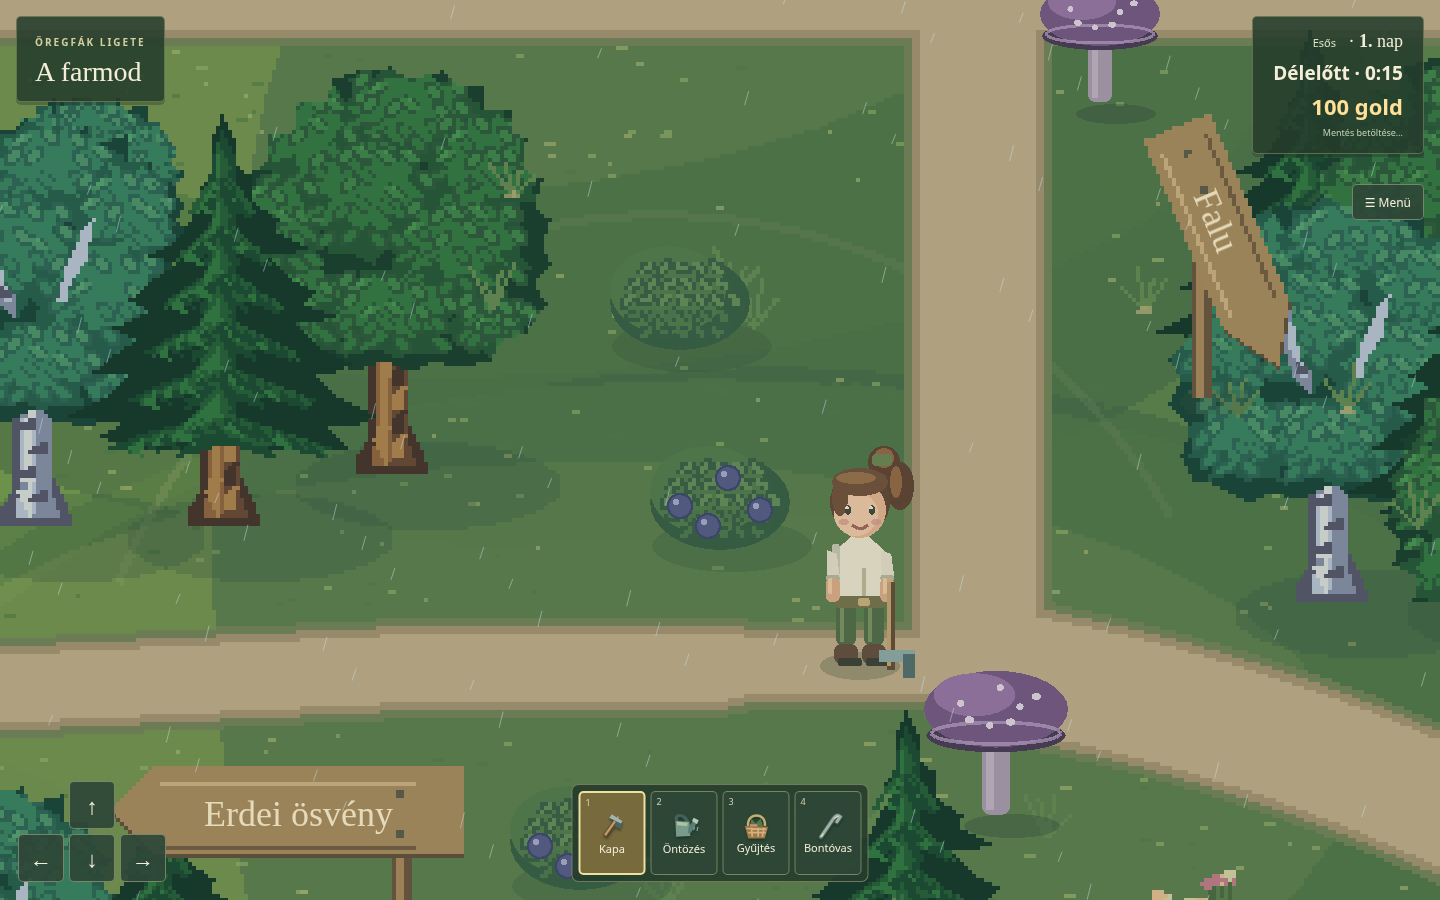
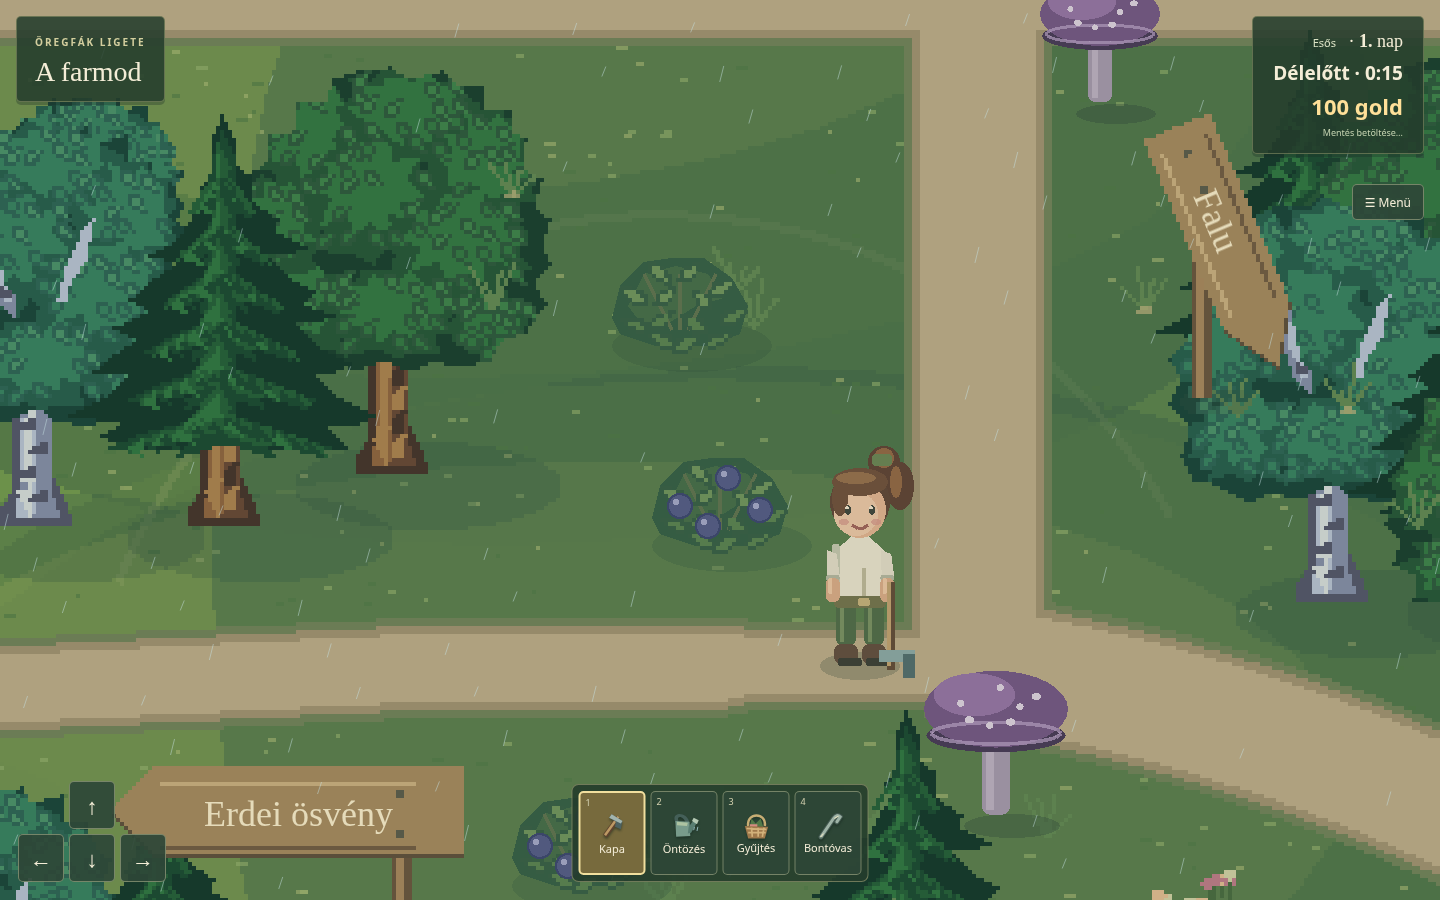
Use sparser pointed leaves and loose blueberry shoots

diff --git a/src/village-art.ts b/src/village-art.ts
@@ -100,12 +100,14 @@ export function drawVillage(scene:Phaser.Scene){
 }
 export function drawForage(scene:Phaser.Scene,picked:Record<string,number>,day:number,weatherSeed=0){
  const g=scene.add.graphics().setDepth(2);
- for(const b of layout.bushes){g.fillStyle(0x2f5138,.25).fillEllipse(b.x+3,b.y+5,40,13);g.fillStyle(0x355f40).fillEllipse(b.x,b.y-6,35,24);g.fillStyle(0x527b48).fillEllipse(b.x-3,b.y-9,29,22);
-  for(let row=0;row<5;row++)for(let col=0;col<7;col++){
-   const dx=(col-3)*4.4+(row%2?1.4:0),dy=(row-2)*4;
-   if((dx/15.4)**2+(dy/10.3)**2>1)continue;
-   drawShrubLeaf(g,b.x+dx,b.y-7+dy,(col<3?-1:1)*(.45+((row+col)%3)*.18),row<3);
-  }
+ for(const b of layout.bushes){
+  g.fillStyle(0x2f5138,.25).fillEllipse(b.x+3,b.y+5,40,13);
+  g.fillStyle(0x355f40).fillPoints([[-17,-2],[-15,-10],[-9,-16],[-2,-17],[6,-17],[13,-12],[17,-5],[15,2],[7,5],[-6,5],[-15,2]].map(([dx,dy])=>({x:b.x+dx,y:b.y+dy})),true);
+  g.fillStyle(0x476e43).fillPoints([[-13,-5],[-9,-13],[-1,-15],[7,-13],[11,-7],[4,-5],[-4,0],[-10,-1]].map(([dx,dy])=>({x:b.x+dx,y:b.y+dy})),true);
+  // Loose alternating leaves belong to three short shoots, not a surface grid.
+  for(const side of [-1,0,1])g.lineStyle(.8,0x61734a).lineBetween(b.x+side*2,b.y+1,b.x+side*9,b.y-13);
+  const leaves=[[-6,-14,-2.4],[2,-14,-.7],[10,-10,-.5],[-12,-8,-2.6],[-4,-8,-.7],[5,-7,-2.3],[13,-3,-.4],[-12,-1,-2.8],[-5,-2,-.6],[3,-1,-2.5],[9,3,-.4],[-5,3,-2.7],[1,4,-.5]];
+  for(let i=0;i<leaves.length;i++){const [dx,dy,a]=leaves[i];drawShrubLeaf(g,b.x+dx,b.y+dy,a,dy< -4,i%3===0?1.5:1.35);}
   if(forageReady({picked,weatherSeed},b.id,day))for(const[dx,dy]of [[-10,-5],[2,-12],[10,-4],[-3,0]]){g.fillStyle(0x565b84).fillCircle(b.x+dx,b.y+dy,3);g.fillStyle(0xa8a9c7).fillCircle(b.x+dx-1,b.y+dy-1,.8);g.lineStyle(.6,0x3c456b).strokeCircle(b.x+dx,b.y+dy,3);}}
  return g;
 }

diff --git a/src/foliage-leaf.ts b/src/foliage-leaf.ts
@@ -1,7 +1,7 @@
 import type Phaser from 'phaser';
 
-/** A tapered oval leaf, shared by pixel trees and small garden shrubs. */
-export function leafContour(length:number,halfWidth:number){return [-length,0,-length*.65,-halfWidth*.7,0,-halfWidth,length*.65,-halfWidth*.65,length,0,length*.35,halfWidth,-length*.25,halfWidth*.85,-length*.7,halfWidth*.55];}
+/** A narrow pointed leaf, shared by pixel trees and small garden shrubs. */
+export function leafContour(length:number,halfWidth:number){return [-length,0,-length*.4,-halfWidth, length*.15,-halfWidth*.8,length,0,length*.15,halfWidth*.8,-length*.4,halfWidth];}
 export function drawShrubLeaf(g:Phaser.GameObjects.Graphics,x:number,y:number,angle:number,light:boolean,size=1){
  const cos=Math.cos(angle),sin=Math.sin(angle);
  const leaf=(l:number,h:number,c:number)=>{
@@ -18,5 +18,5 @@ export function drawShrubLeaf(g:Phaser.GameObjects.Graphics,x:number,y:number,an
    for(let i=0;i+1<hits.length;i+=2){const left=Math.ceil(hits[i]),right=Math.floor(hits[i+1]);if(right>=left)g.fillRect(left,yy,right-left+1,1);}
   }
  };
- leaf(2.8,1.65,0x385f40);leaf(1.95,.9,light?0x648b53:0x4e7848);
+ leaf(3.1,1.45,0x385f40);leaf(2.1,.75,light?0x729658:0x5b834b);
 }

diff --git a/src/woodland-tree.ts b/src/woodland-tree.ts
@@ -72,14 +72,14 @@ export function drawWoodlandTree(g:Phaser.GameObjects.Graphics,random:()=>number
   for(let k=0;k<patches.length;k++){
    const [cx,cy,rx,ry]=patches[k];
    for(let row=0;row<4;row++)for(let col=0;col<5;col++){
-    const a=hash(k*31+row*5+col,k+7);if(a%7===0)continue;
+    const a=hash(k*31+row*5+col,k+7);if(a%3===0)continue;
     const xx=Math.round(cx+(col-2)*rx*.34+(row%2?2:0)+(a%3)-1),yy=Math.round(cy+(row-1.5)*ry*.39+(col%2)+((a>>>5)%3)-1);
     const angle=(col<2?-1:1)*(.45+(a%3)*.18),cos=Math.cos(angle),sin=Math.sin(angle);
     const transform=(points:number[])=>points.map((v,i)=>i%2?yy+points[i-1]*sin+v*cos:xx+v*cos-points[i+1]*sin);
     const leaf=(length:number,height:number)=>transform(leafContour(length,height));
     // A one-pixel dark rim all around, not just a drop shadow.
-    shape(leaf(3.4,1.9),birch?0x2c6450:0x2c5936);
-    shape(leaf(2.35,1),row<2?(birch?0x4a9264:0x3d8444):palette[2]);
+    shape(leaf(3.8,1.7),birch?0x2c6450:0x2c5936);
+    shape(leaf(2.7,.85),row<2?(birch?0x4a9264:0x3d8444):palette[2]);
     if(row<2&&a%3===0)shape(transform([-1,-1,1,-1,0,0,-1,0]),palette[3]);
    }
   }

diff --git a/docs/qa/0.3.0-leaves-and-shrub-detail.md b/docs/qa/0.3.0-leaves-and-shrub-detail.md
@@ -5,3 +5,11 @@ A jóváhagyott, elkülönülő levelek kontúrja enyhébb kontrasztú, a forma 
 Nem változik hely, ütközés, szedési feltétel, megosztott véletlenszám-fogyasztás vagy mentésmező. Mara bokrai továbbra is csak a 24 lépcsős metszési állapot változásakor rajzolódnak újra.
 
 Ellenőrzés: teljes teszt és TypeScript/Vite build; elkülönített Chromium/CDP normál erdei és háromfás képpel, továbbá áfonya- és díszbokor-közelképpel. A metszés két végállapotának rajzparancsai eltérnek; a két bokros képen egy metszetlen és egy rendezett díszbokor látszik. Cypress bináris hiányában a böngészős ellenőrzés CDP-vel történik, játékon belüli új tesztmód nélkül.
+
+## Hegyesebb, ritkább levelek és lazább áfonya
+
+A levélkörvonal keskenyebb, hosszabb csúcsú. A lombos fák a korábbi, hetedrészt kihagyó kiosztás helyett a helyek körülbelül harmadát kihagyják; a közös véletlensorozatot továbbra is ugyanannyiszor léptetjük. Az áfonyán a rácsos levélsorok helyett 13 külön elhelyezett levél tartozik három rövid hajtáshoz, visszafogott háttérlombbal. A bogyók továbbra is a levelek után rajzolódnak, az érési/szedési szabály változatlan. Mara kiálló hajtásainak száma és nyírási működése megmarad; a közös hegyesebb levélforma rájuk is vonatkozik.
+
+A friss háromfás, áfonyás és díszbokros képek, valamint a teljes teszt/build és a metszési végállapotok böngészős ellenőrzése szolgál ellenőrzésül.
+
+A ritkább áfonyalevelek a közeli ellenőrzés után nagyobb méretet és kissé világosabb zöld belsőt kaptak, hogy a hajtások mellett is látszódjanak. Mara kiálló levelei továbbra is megmaradnak. Az első teljes tesztfutásban egy változatlan pályaellenőrzés 5 másodperces időkorlátba futott; a végleges módosítás teljes újrafuttatásakor 511/511 teszt sikeres.

diff --git a/docs/jatekterv.md b/docs/jatekterv.md
@@ -1587,3 +1587,5 @@ A felhasználó kifejezett pontosítása: a nyír, lombos fa és fenyő korábbi
 ### Elfogadott sötét szélű levelek finomítása és bokrok — 2026-11-12
 
 A felhasználó az elkülönülő, sötét szélű levelek irányát elfogadta. A levélforma nyújtottabb, lágyabban ívelt; a kontúr maradjon felismerhető, de kisebb legyen a belső levélszínhez viszonyított kontrasztja. Az áfonyabokrok és Mara mindkét díszbokra ugyanilyen részletességű leveleket kap. Az áfonya szedhetősége és a látható bogyók megmaradnak; Mara metszése továbbra is fokozatosan rendezett formát alakít ki, levágott levelekkel. Elhelyezés és játékmenet nem változik.
+
+A következő finomításnál a levelek hegyesebbek, a fák lombján ritkábbak. Az áfonyabokrok szabályos levélsorai helyett néhány rövid hajtáshoz kapcsolódó, lazább levélcsoport készül. Mara bokrain a felhasználó által kedvelt kiálló levelek és azok metszés alatti visszahúzódása megmarad.
